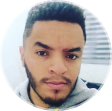
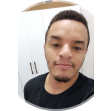
acabou

diff --git a/index.html b/index.html
@@ -17,7 +17,7 @@
   <body>
     <div id="container">
       <div id="profile">
-        <img src=""/>
+        <img src="./assets/avatar.jpg"/>
         <p>@GodoyDev</p>
       </div>
 
